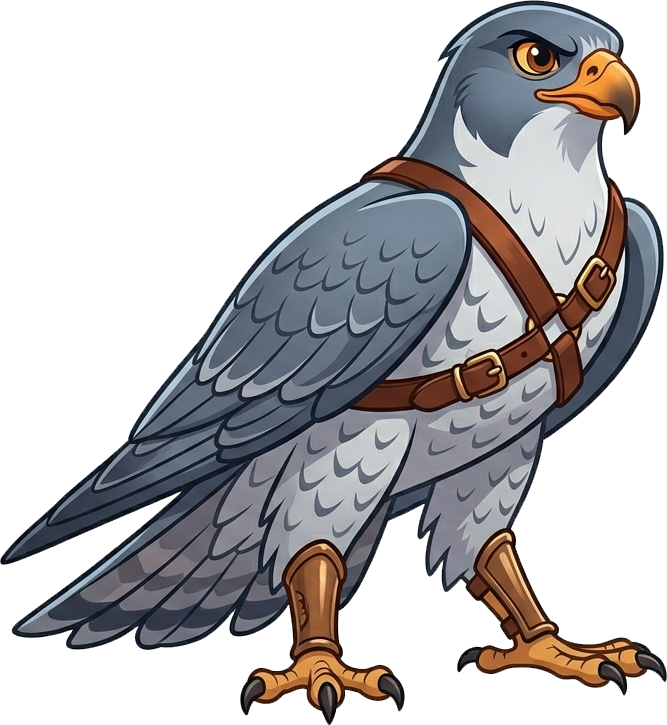
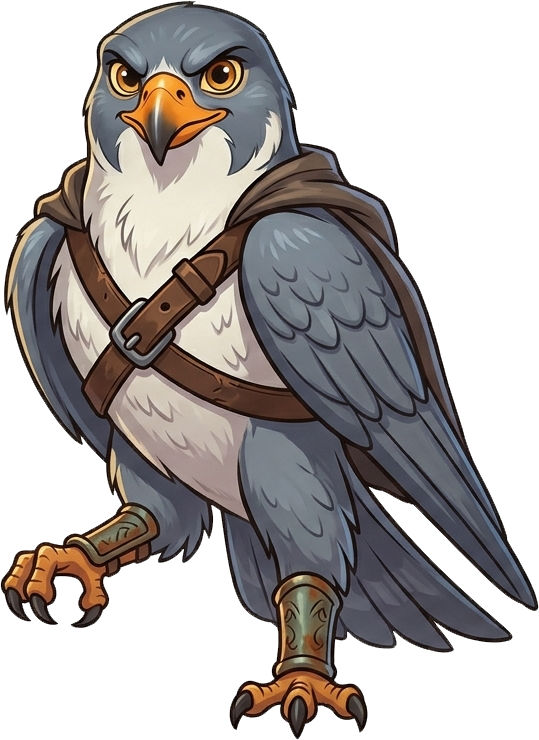
gladiator-arena: widen pillars 5% + updated AquilaEagle/FalcoFalcon art
- Bump pillar width from charSize × 0.9 to charSize × 0.945 (5% wider)
- Refresh AquilaEagle.png and FalcoFalcon.png character art

diff --git a/dart_games/lib/screens/games/gladiator_arena/gladiator_arena_game_screen.dart b/dart_games/lib/screens/games/gladiator_arena/gladiator_arena_game_screen.dart
@@ -1135,11 +1135,11 @@ class _GladiatorArenaGameScreenState extends State<GladiatorArenaGameScreen> {
         // Podium bar — rendered as a marble Roman column with vertical
         // fluting and cylindrical shading. Active players get an Imperial
         // Purple wash over the marble; inactive players a subtle Colosseum
-        // Gray wash. Pillar width is anchored to charSize × 0.9 so the
+        // Gray wash. Pillar width is anchored to charSize × 0.945 so the
         // column reads as a slightly-narrower plinth under the character.
         AnimatedContainer(
           duration: const Duration(milliseconds: 400),
-          width: charSize * 0.9,
+          width: charSize * 0.945,
           height: barHeight,
           child: ClipRRect(
             borderRadius:
